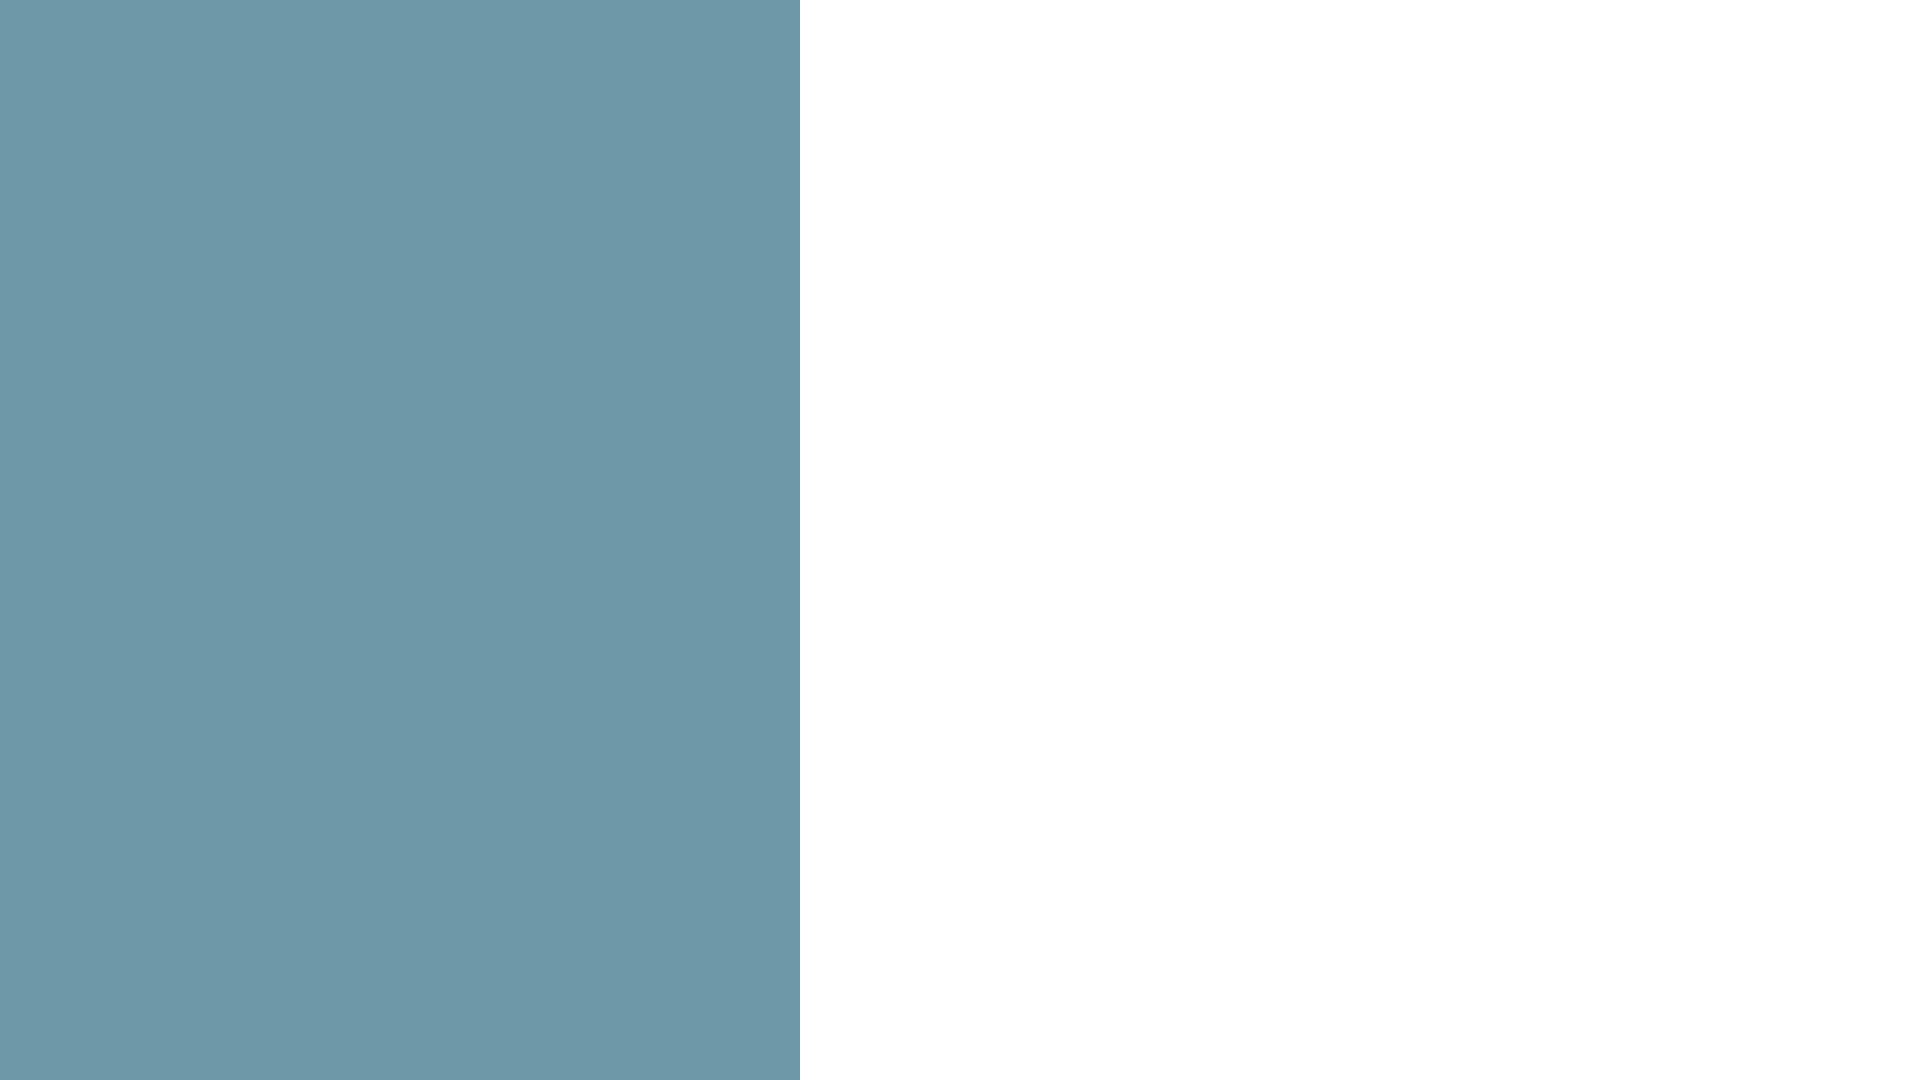
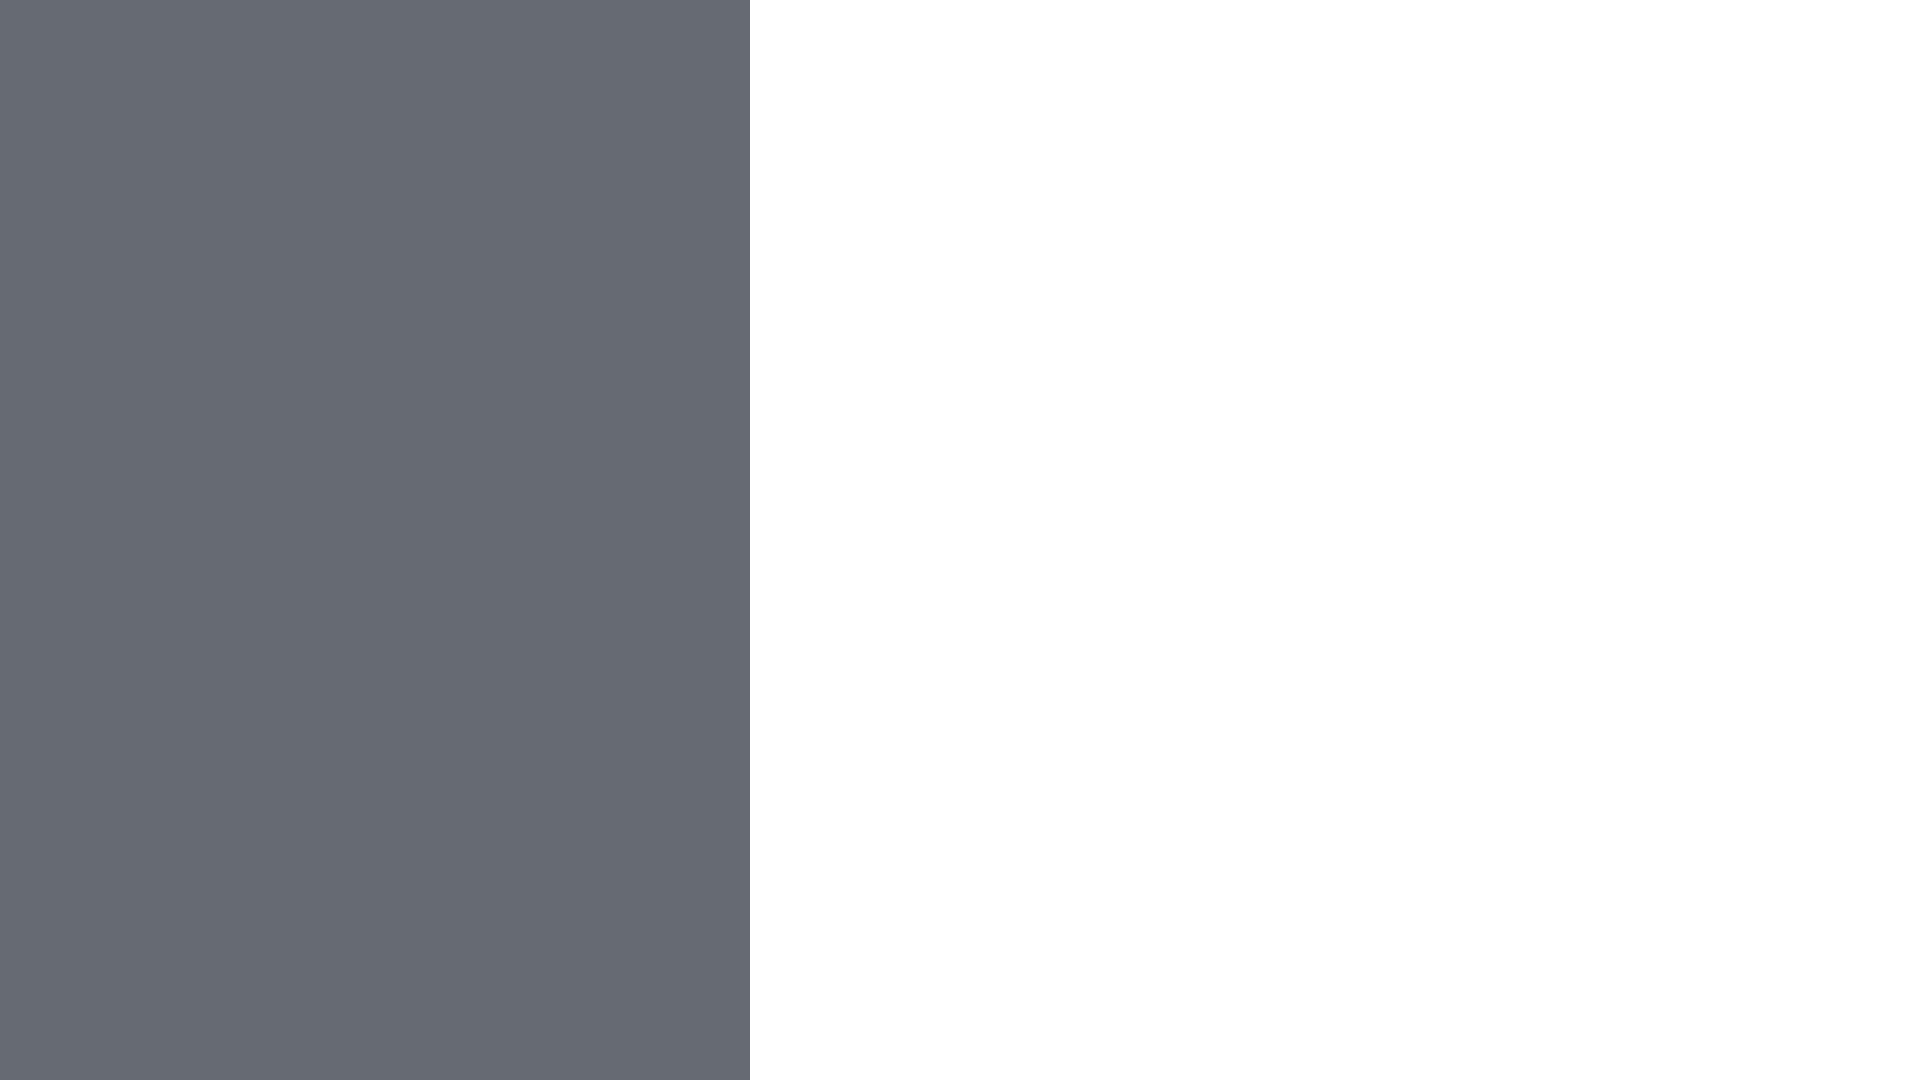
new color scheme

diff --git a/css/styles.css b/css/styles.css
@@ -1,14 +1,14 @@
 :root {
   --main-color: #203e49;
-  --main-color_light: #6e98a8;
-  --main-color_dark: #0a2029;
-  --main-color_card-bg: #95b2bd;
+  --main-color_light: #666a73;
+  --main-color_dark: #242424;
+  --main-color_card-bg: #242424;
   --accent_color: #57d198;
 
-  --html-color: #d4e1e6;
+  --html-color: #bababf;
 
   --font_1: 'Poppins', sans-serif;
-  --font-color: #0a2029;
+  --font-color: #2f3536;
 }
 
 li {
@@ -356,6 +356,10 @@ p.card-subtitle {
   padding-top: 0;
   padding-bottom: 0.3vmin;
   text-align: center;
+}
+
+.img-border {
+  border: 3px solid var(--accent_color) !important;
 }
 
 @media (max-width: 1000px) {

diff --git a/index.html b/index.html
@@ -66,7 +66,7 @@
       <div class="col-lg-3 col-md-2 col-sm-1"></div>
       <div class="col-lg-3 col-md-4 col-sm-5 scene_element__long scene_animation__fadeinleft">
         <div class="card shadow-lg p-3 text-center mx-sm-2 card-bg">
-          <img class="rounded-circle mx-auto d-block img-fluid" src="images/Logo2.png" alt="Profile picture" />
+          <img class="rounded-circle mx-auto d-block img-fluid img-border" src="images/Logo2.png" alt="Profile picture" />
           <div class="mt-4">
             <h3 class="name-card">Nicola</h3>
             <h3 class="name-card">Derocchi</h3>
